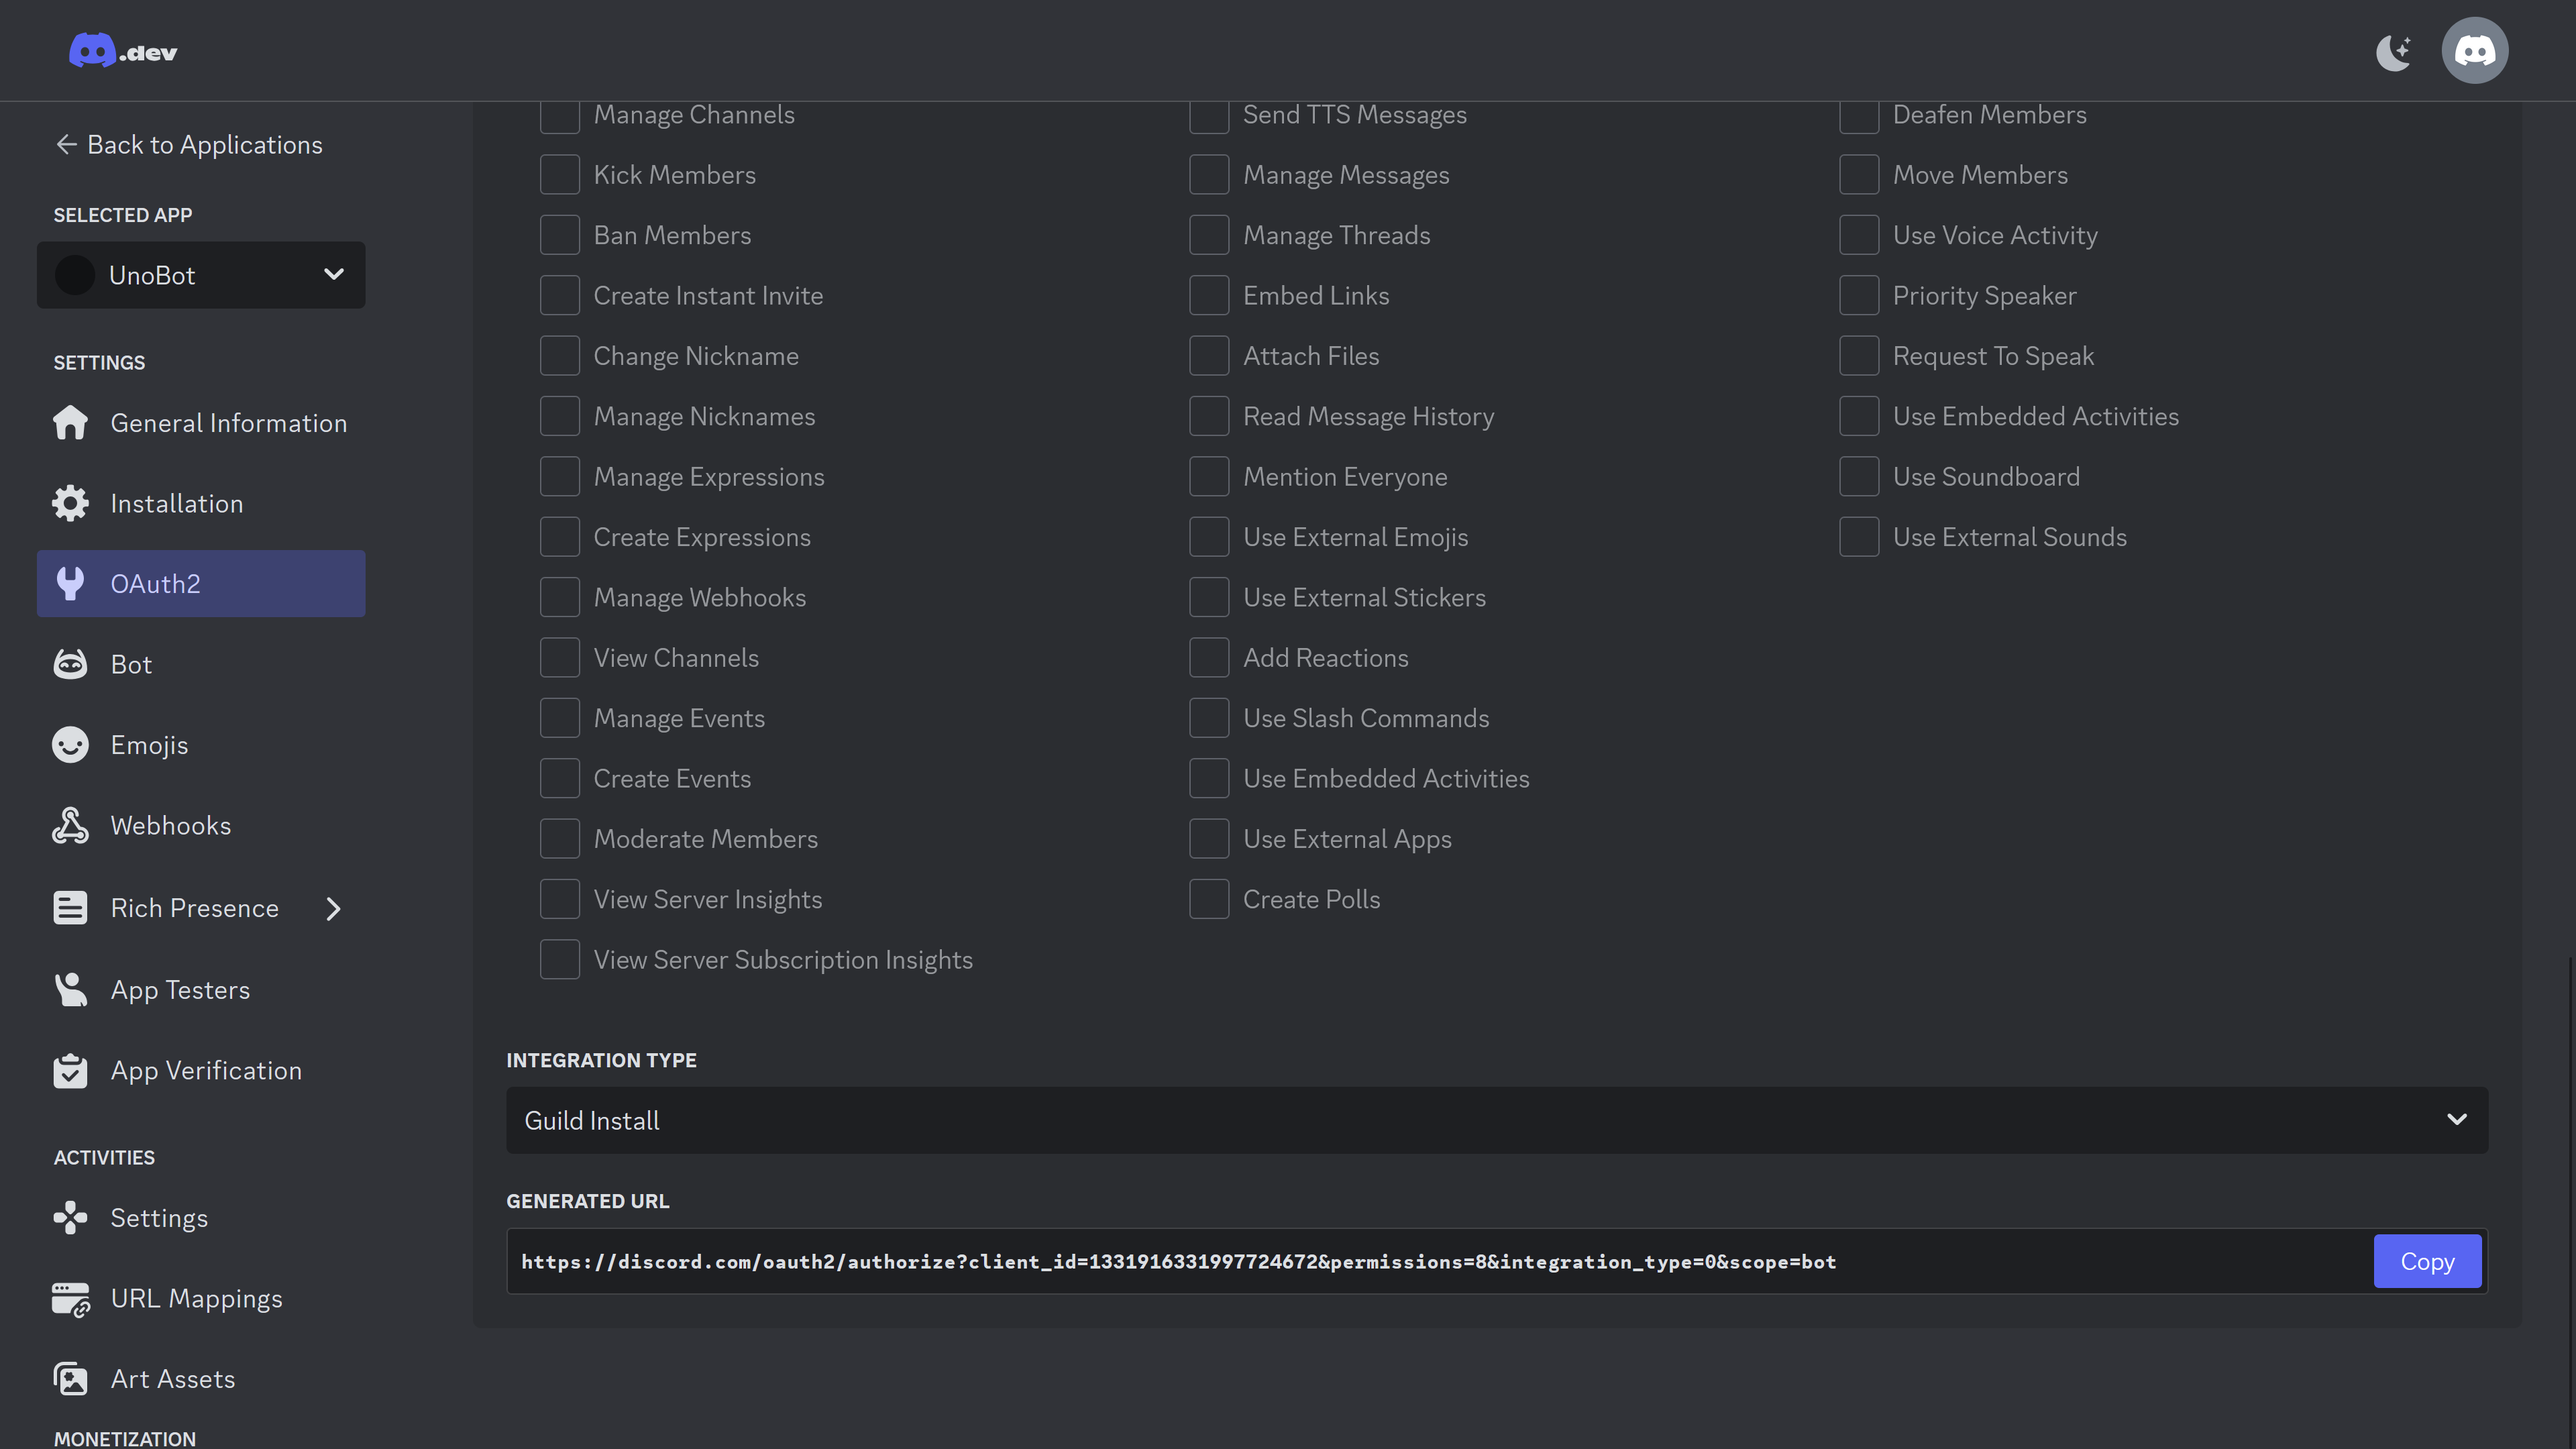
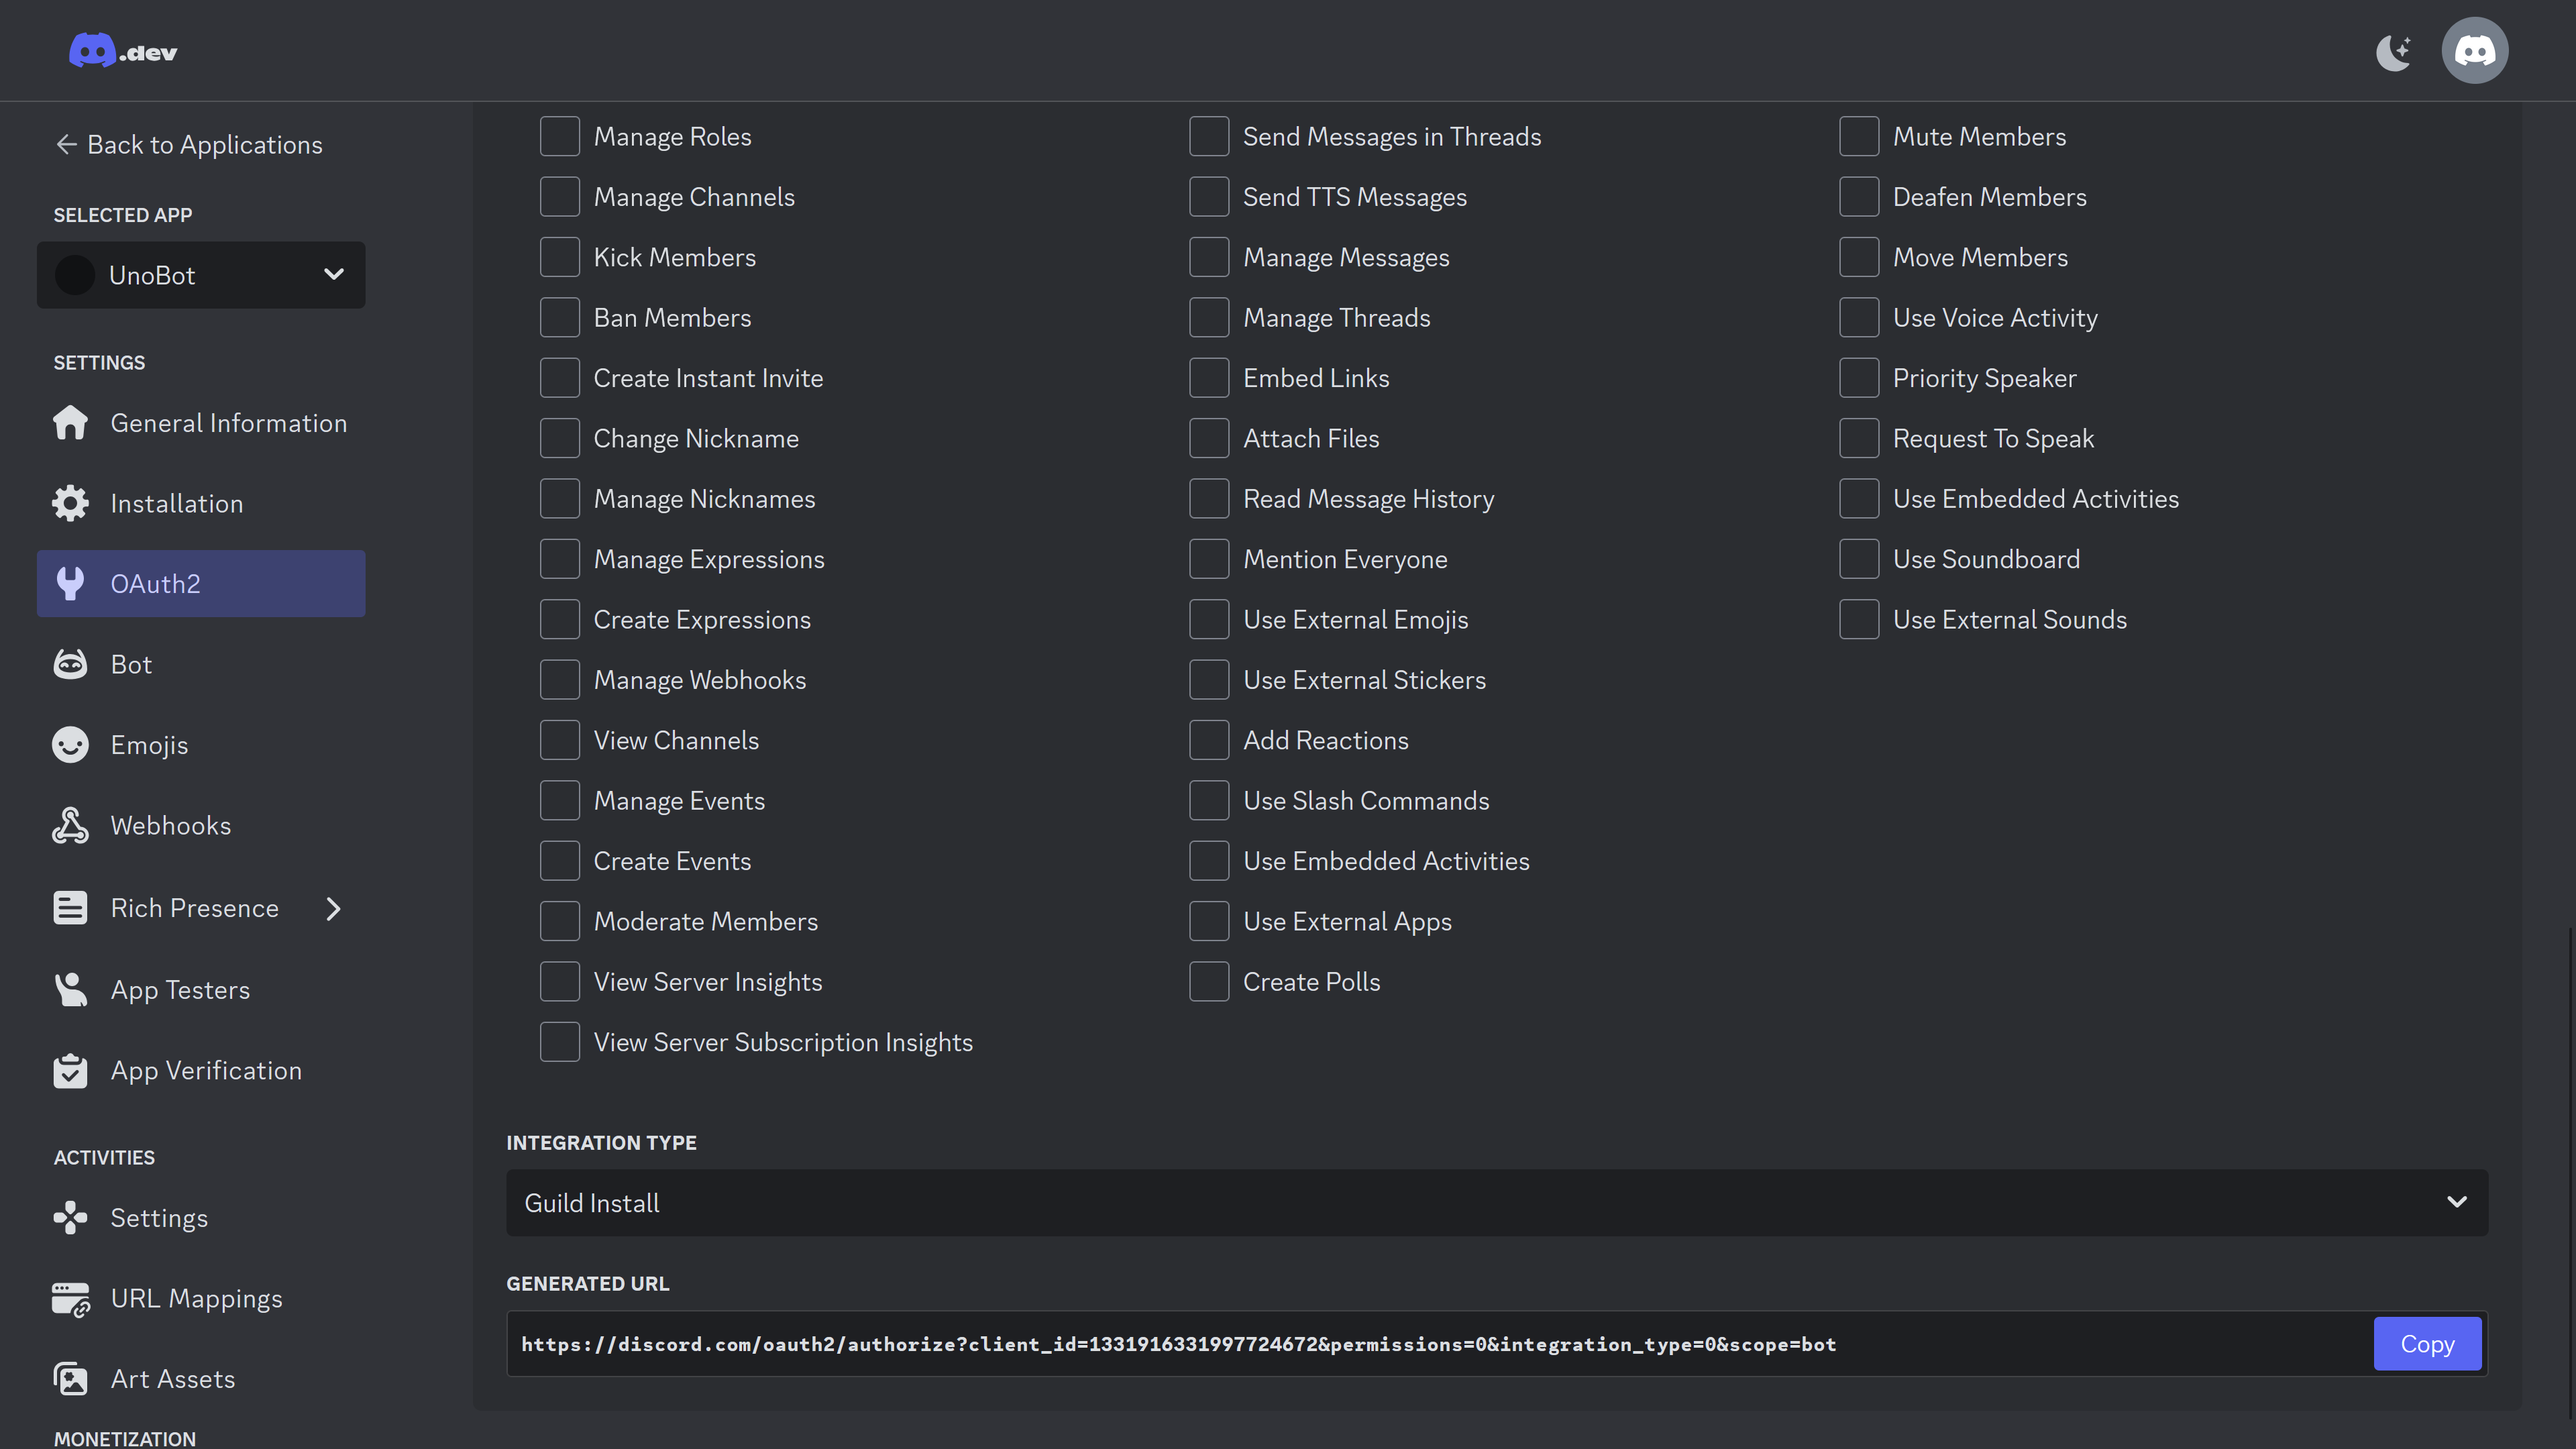
Added new pictures + keyborad stuff

diff --git a/readme.md b/readme.md
@@ -13,40 +13,40 @@
 
 
 ## Githubi repo allalaadimine
-Selleks, et kood alla laadida vajuta selle lehe ülaosas olevale rohelisele nupule "_Code_"
+Selleks, et kood alla laadida vajuta selle lehe ülaosas olevale rohelisele nupule ![Github Code nupp](images/code_button.svg "Github Code Button")
 ![Github koodi allalaadimine](images/1.png "Githubist koodi alla laadimine")  
 
 Seejärel vali HTTPS ning kopeeri link.
 ![Githubi koodi allalaadimine](images/2.png "Githubist koodi allalaadimine")
 Ava PyCharm.  
-Kui PyCharm küsib litsentsi aktiveerimist, siis vali _License server_ ning aseta antud link serveri aadressi alla.
+Kui PyCharm küsib litsentsi aktiveerimist, siis vali <kbd>License server</kbd> ning aseta antud link serveri aadressi alla.
 ```
 http://license1.intra.ttu.ee:1111
 ```
 ![PyCharmi aktiveerimine](images/3.png "Pycharmi aktiveerimine")
 
-Kui see on tehtud, siis peaks avanema projekti avamise vaade  Sealt vali _Clone Repository_.
+Kui see on tehtud, siis peaks avanema projekti avamise vaade  Sealt vali <kbd>Clone Repository</kbd>.
 ![PyCharmiga Repo Kloonimine](images/21.png "PyCharmiga Repo Kloonimine")
 
-Peale seda aseta link, mille GitHubist kopeerisid ning vajuta _Clone_
+Peale seda aseta link, mille GitHubist kopeerisid ning vajuta <kbd>Clone</kbd>
 ![PyCharmiga Repo kloonimine link](images/22.png "PyCharmiga Repo kloonimine link")
 
-PyCharm ilmselt küsib, kas usaldada antud projekti, vajuta _Trust Project_.
+PyCharm ilmselt küsib, kas usaldada antud projekti, vajuta <kbd>Trust Project</kbd>.
 ![PyCharmi projekti usaldamine](images/23.png "Pycharmi projekti usaldamine")
 
-Kui kõik läks hästi, siis peaks kood olema alla laetud ning seda peaks olema näha (kõige laguses see avab muidugi selle õpetuse faili (`readme.md`), kuid vasakul paneelil saate failides ning kaustades sorada).
+Kui kõik läks hästi, siis peaks kood olema alla laetud ning seda peaks olema näha (alselt peaks olema avataud õpetuse faili (`readme.md`), kuid vasakul paneelil saate failides ning kaustades sorada).
 ![PyCharmi projekti vaade](images/24.png "PyCharmi projekti vaade")
 
 <details>
   <summary><b>Kui GITiga (lingiga ehk HTTPS) allalaadimine ebaõnnestub</b></summary>  
 
-  Kui gitiga allalaadimine ebaõnnestus, siis võib ka ZIP failina koodi alla laadida. Selleks vali _Download ZIP_
+  Kui GITiga allalaadimine ebaõnnestus, siis võib ka ZIP failina koodi alla laadida. Selleks vali <kbd>Download </kbd>
   ![Githubi koodi allalaadimine](images/2.png "Githubist koodi allalaadimine")  
-  Nüüd kui kood on alla laetud mine allalaetud failide kausta ning paki ZIP fail lahti (Parem klõps ja _extract all..._)
+  Nüüd kui kood on alla laetud mine allalaetud failide kausta ning paki ZIP fail lahti (Parem klõps ja <kbd>extract all...</kbd>)
   ![ZIP faili lahti pakkimine](images/4_cropped.png "ZIP faili lahti pakkimine")  
-  Nüüd kui see tehtud, siis ava PyCharm ning projektide alt vali _Open_
+  Nüüd kui see tehtud, siis ava PyCharm ning projektide alt vali <kbd>Open</kbd>
   ![Kausta avamine PyCharmis](images/28.png "Kausta avamine PyCharmis")
-  Leia üles kaust, kuhe te failid ekstraktisite ning avage see.
+  Leia üles kaust, kuhu te failid lahti pakkisite ning avage see.
   ![Kausta leidmine PyCharmis](images/29.png "Kausta leidmine PyCharmis")
   Jällegi, vajutage, et usaldate projekti.
   ![Projekti usaldamine PyCharmis](images/30.png "Projekti usaldamine PyCharmis")
@@ -55,11 +55,11 @@ Kui kõik läks hästi, siis peaks kood olema alla laetud ning seda peaks olema 
 
 
 ## Discordi mooduli alla laadimine
-Selleks et meie kood saaks discoridga suhelda on head arendajad loonud python'i jaoks mooduli, mille abil saab discordi boti programmeerida. Kuna antud moodul pole veel alla laetud, siis peate te seda ise tegema.
+Selleks et meie kood saaks discordiga suhelda on head arendajad loonud python'i jaoks mooduli, mille abil saab discordi boti programmeerida. Kuna antud moodul pole veel alla laetud, siis peate te seda ise tegema.
 Selleks avage PyCharmis terminal (vasakus all servas).
 ![PyCharmis terminali avamine](images/25.png "PyCharmis terminali avamine")
-Peale seda asetage järgnev rida terminali ning vajutage _Enter_.
-```
+Peale seda asetage järgnev rida terminali ning vajutage <kbd>Enter</kbd>.
+```bash
 pip install discord
 ```
 ![Pip-ga discordi mooduli alla laadimine](images/26.png "Pip-ga discordi mooduli alla laadimine")
@@ -76,10 +76,8 @@ Konto kasutajanimeks võid kasutada ükskõik mida (ei pea olema sinu päris nim
 
 
 ## Discordi serveri loomine  
-_<span style="color:red">Ilmselt ei lähe vaja ju?</span>_  
-
 Selleks mine tagasi discordi ning vajuta suurt plussi vasakul servas.  
-Peale seda vali, et teed serveri enda jaoks (_Create My Own_) ning see on ainult sulle endale ja sõpradele (_For me and my friends_).  
+Peale seda vali, et teed serveri enda jaoks <kbd>Create My Own</kbd> ning see on ainult sulle endale ja sõpradele (<kbd>For me and my friends</kbd>).  
 ![Serveri valimine](images/10.png "Serveri valimine")
 ![Kes kasutavad serverit](images/11.png "Kes kasutavad serverit")
 
@@ -92,22 +90,22 @@ Nüüd on server valmis
 
 
 ## Boti loomine
-Mine lehele [https://discord.com/developers/applications](https://discord.com/developers/applications) ning loo uus rakendus (_New Application_).  
-![Discordi rakenduse loomine](images/6.png "Discordi rakenudse loomine")
+Mine lehele [https://discord.com/developers/applications](https://discord.com/developers/applications) ning loo uus rakendus <kbd>New Application</kbd>.  
+![Discordi rakenduse loomine](images/6.png "Discordi rakenduse loomine")
 Anna enda botile mingi nimi.  
 ![Botile nime andmine](images/7.png "Botile nime andmine")
 
-Selleks, et boti kasutada saaks, tuleb temale juurdepääs saada. Selleks on vaja boti tokenit. Seega mine "Bot"-i alla ning vajuta "Reset Token".
+Selleks, et boti kasutada saaks, tuleb temale juurdepääs saada. Selleks on vaja boti tokenit. Seega mine <kbd>Bot</kbd> alla ning vajuta <kbd>Reset Token</kbd>.
 ![Boti tokeni leidmine](images/8.png "Boti tokeni leidmine")  
 
 Token-i resettimise käigus ilmselt küsib discord parooli, see on normaalne. Nüüd kopeeri token (see on see pikk numbrite, tähtede ning sümbolite jada).  
 ![Boti tokeni leidmine](images/9.png "Tokeni kopeerimine") 
 
-Nüüd mine oma projekti alla ning aseta see token **KUSKILE**  
-**<span style="color:cyan">Boti token:</span>** _MTMzMTkxNjMzMTk5NzcyNDY3Mg.GrqBgo.arZGbXr03qzGS_G9-oE7amyL7rUkSnc7cU4ODw_
+Nüüd mine oma projekti alla ning aseta see token **KUSKILE (ilmselt mingi eraldi fail token'i jaoks)**  
+Näiteks võib token välja näha nagu midagi sellist: _MTMzMTkxNjMzMTk5NzcyNDY3Mg.GrqBgo.arZGbXr03qzGS_G9-oE7amyL7rUkSnc7cU4ODw_
 
 Keri veel natuke allapoole ning lülita sisse _MESSAGE CONTENT INTENT_  
-![Message contern intent sisse lülitamine](images/31.png "Message contern intent sisse lülitamine")  
+![Message content intent sisse lülitamine](images/31.png "Message content intent sisse lülitamine")  
 Kindlasti salvesta ka muudatused.  
 <details>
 
@@ -125,21 +123,21 @@ Nüüd on bot valmis ning töökorras, kuid selleks et temast asja oleks, tuleb 
 ## Boti kutsumine serverisse
 Mine enda boti lehele [https://discord.com/developers/applications](https://discord.com/developers/applications).  
 
-See järel mine OAuth2 alla ning OAtuh2 URL Generator alt vali "bot".
+See järel mine OAuth2 alla ning OAuth2 URL Generator alt vali <kbd>bot</kbd>.
 ![Botile õiguste andmine](images/14.png "Botile õiguste andmine")
 
 Õiguste alt ei pea valima midagi, vaid keri alla ning kopeeri link kopeeri genereeritud URL.
 <!-- ![Boti Administraatoriks tegemine](images/15.png "Boti administraatoriks tegemine") -->
 ![URLi kopeerimine](images/16.png "URLi kopeerimine")  
-**<span style="color:cyan"> Boti link:</span>** https://discord.com/oauth2/authorize?client_id=1331916331997724672&permissions=8&integration_type=0&scope=bot
 
-Nüüd mine kopeeritud linigle ning vali, millisesse serverisse sa boti kutsuda tahad, seejärel vajuta _Continue_ ning _Authorize_.
+
+Nüüd mine kopeeritud lingile ning vali, millisesse serverisse sa boti kutsuda tahad, seejärel vajuta <kbd>Continue</kbd> ning <kbd>Authorize</kbd>.
 ![Boti serverisse lisamine](images/17.png "Boti serverisse lisamine")
 
 Seejärel on bot sinu serverisse lisatud, kuid ta on offline.  
 ![Bot on lisatud serverisse](images/18.png "Bot on lisatud serverisse")
 
 ## Boti ellu äratamine ehk koodi jooksutamine
-Selleks, et koodi käivitada, peab kõigepealt üles leidma faili, mida me käivitada tahame. Antud prjektis on selle faili nimi `game.py`.
+Selleks, et koodi käivitada, peab kõigepealt üles leidma faili, mida me käivitada tahame. Antud projektis on selle faili nimi `game.py`.
 ![Faili käivitamine PyCharmis](images/33.png "Faili käivitamine PyCharmis")
-Seejärel vajuta üleval paremas servas olevat rohelist noolekest (kolmunrk, mis on rohelisest putukast vasakul pool).
+Seejärel vajuta üleval paremas servas olevat rohelist noolekest (kolmnurk, mis on rohelisest putukast vasakul pool).
